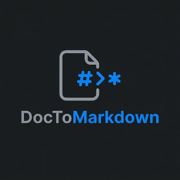
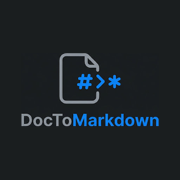
fix: redimensionar y centrar iconos, corregir error 401 en google drive y mejorar toasts en móvil

Changed region(s): [[0.1111, 0.6111, 0.8889, 0.7222], [0.3056, 0.2778, 0.6944, 0.5833]]

diff --git a/src/App.tsx b/src/App.tsx
@@ -59,8 +59,8 @@ export default function App() {
   const [isConverting, setIsConverting] = useState(false);
   const [historyList, setHistoryList] = useState<Conversion[]>([]);
   const [filesList, setFilesList] = useState<StoredFile[]>([]);
-  const [geminiApiKey, setGeminiApiKey] = useState<string>(localStorage.getItem('gemini_api_key') || import.meta.env.VITE_GEMINI_API_KEY || '');
-  const [googleClientId, setGoogleClientId] = useState<string>(localStorage.getItem('gdrive_client_id') || import.meta.env.VITE_GOOGLE_CLIENT_ID || '');
+  const [geminiApiKey, setGeminiApiKey] = useState<string>((localStorage.getItem('gemini_api_key') || import.meta.env.VITE_GEMINI_API_KEY || '').trim());
+  const [googleClientId, setGoogleClientId] = useState<string>((localStorage.getItem('gdrive_client_id') || import.meta.env.VITE_GOOGLE_CLIENT_ID || '').trim());
   const [errorMsg, setErrorMsg] = useState<string | null>(null);
   const [successMsg, setSuccessMsg] = useState<string | null>(null);
   
@@ -285,8 +285,12 @@ export default function App() {
 
   // Guardar configuración de Ajustes
   const saveSettings = () => {
-    localStorage.setItem('gemini_api_key', geminiApiKey);
-    localStorage.setItem('gdrive_client_id', googleClientId);
+    const trimmedApiKey = geminiApiKey.trim();
+    const trimmedClientId = googleClientId.trim();
+    setGeminiApiKey(trimmedApiKey);
+    setGoogleClientId(trimmedClientId);
+    localStorage.setItem('gemini_api_key', trimmedApiKey);
+    localStorage.setItem('gdrive_client_id', trimmedClientId);
     setIsSettingsOpen(false);
     showToast('Ajustes guardados correctamente.', 'success');
   };
@@ -665,7 +669,7 @@ export default function App() {
     <div className="flex h-screen w-screen overflow-hidden bg-background text-on-surface">
       {/* Toast de error */}
       {errorMsg && (
-        <div className="fixed top-6 left-1/2 -translate-x-1/2 z-[100] w-[90vw] max-w-lg toast-entrance">
+        <div className="fixed top-16 left-4 right-4 sm:left-1/2 sm:-translate-x-1/2 sm:right-auto sm:w-[90vw] sm:max-w-lg z-[100] toast-entrance">
           <div className="bg-red-500/95 backdrop-blur-xl border border-white/10 px-4 py-3 rounded-xl shadow-2xl flex items-start gap-3 max-h-[85vh] overflow-y-auto">
             <AlertCircle className="text-white shrink-0 mt-0.5" size={20} />
             <div className="flex-1 min-w-0">
@@ -681,11 +685,11 @@ export default function App() {
 
       {/* Toast de éxito */}
       {successMsg && (
-        <div className="fixed top-6 left-1/2 -translate-x-1/2 z-[100] w-auto max-w-md toast-entrance">
+        <div className="fixed top-16 left-4 right-4 sm:left-1/2 sm:-translate-x-1/2 sm:right-auto sm:w-auto sm:max-w-md z-[100] toast-entrance">
           <div className="bg-green-500/90 backdrop-blur-xl border border-white/10 px-4 py-3 rounded-xl shadow-2xl flex items-center gap-3">
             <CheckCircle className="text-white shrink-0" size={20} />
             <p className="text-white text-sm font-medium">{successMsg}</p>
-            <button onClick={() => setSuccessMsg(null)} className="ml-2 hover:bg-white/10 p-1 rounded-lg transition-colors">
+            <button onClick={() => setSuccessMsg(null)} className="ml-2 hover:bg-white/10 p-1 rounded-lg transition-colors cursor-pointer">
               <span className="material-symbols-outlined text-[18px] text-white">close</span>
             </button>
           </div>

diff --git a/src/index.css b/src/index.css
@@ -114,8 +114,20 @@
   from { transform: translate(-50%, -20px); opacity: 0; }
   to { transform: translate(-50%, 0); opacity: 1; }
 }
+
+@keyframes toast-slide-down-mobile {
+  from { transform: translateY(-20px); opacity: 0; }
+  to { transform: translateY(0); opacity: 1; }
+}
+
 .toast-entrance {
-  animation: toast-slide-down 0.4s cubic-bezier(0.16, 1, 0.3, 1) forwards;
+  animation: toast-slide-down-mobile 0.4s cubic-bezier(0.16, 1, 0.3, 1) forwards;
+}
+
+@media (min-width: 640px) {
+  .toast-entrance {
+    animation: toast-slide-down 0.4s cubic-bezier(0.16, 1, 0.3, 1) forwards;
+  }
 }
 
 @keyframes modal-scale-in {

diff --git a/src/services/googleDrive.ts b/src/services/googleDrive.ts
@@ -25,7 +25,7 @@ export const authenticateGoogleDrive = (): Promise<string> => {
       return;
     }
 
-    const clientId = import.meta.env.VITE_GOOGLE_CLIENT_ID || localStorage.getItem('gdrive_client_id') || '';
+    const clientId = (import.meta.env.VITE_GOOGLE_CLIENT_ID || localStorage.getItem('gdrive_client_id') || '').trim();
     if (!clientId) {
       reject(new Error('CLIENT_ID de Google Drive no configurado en Ajustes.'));
       return;
